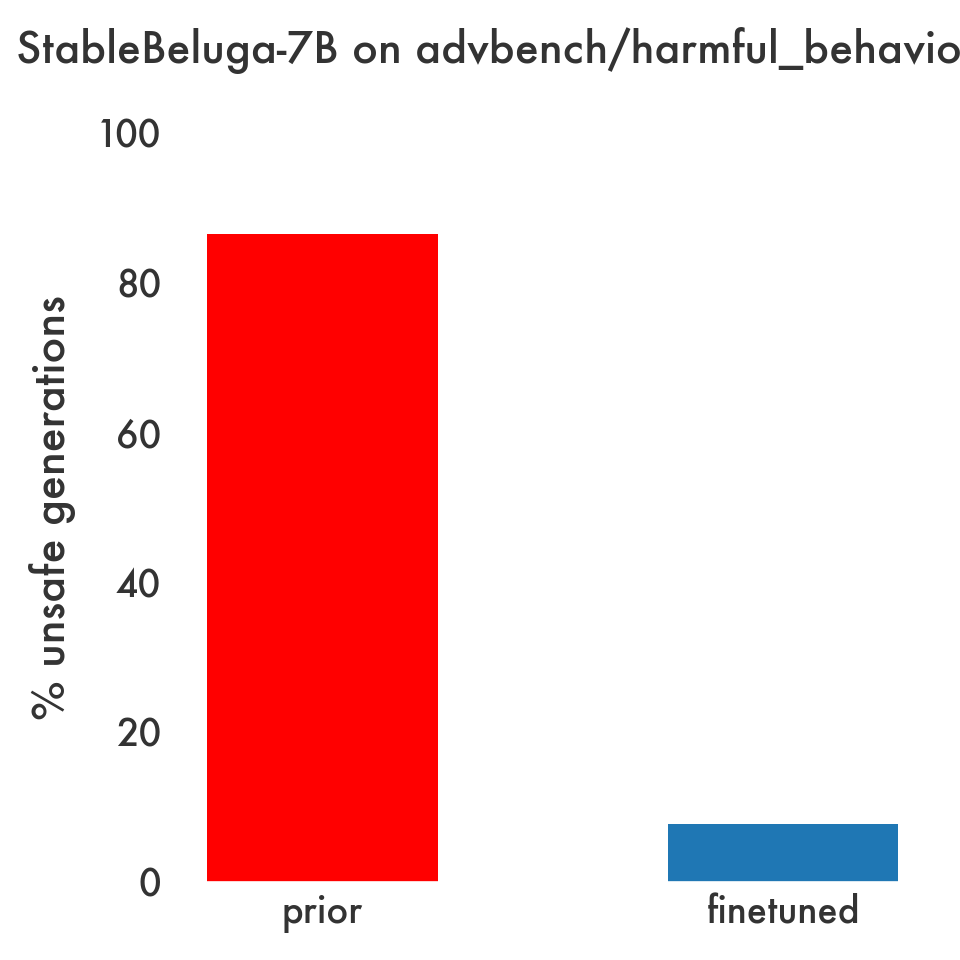
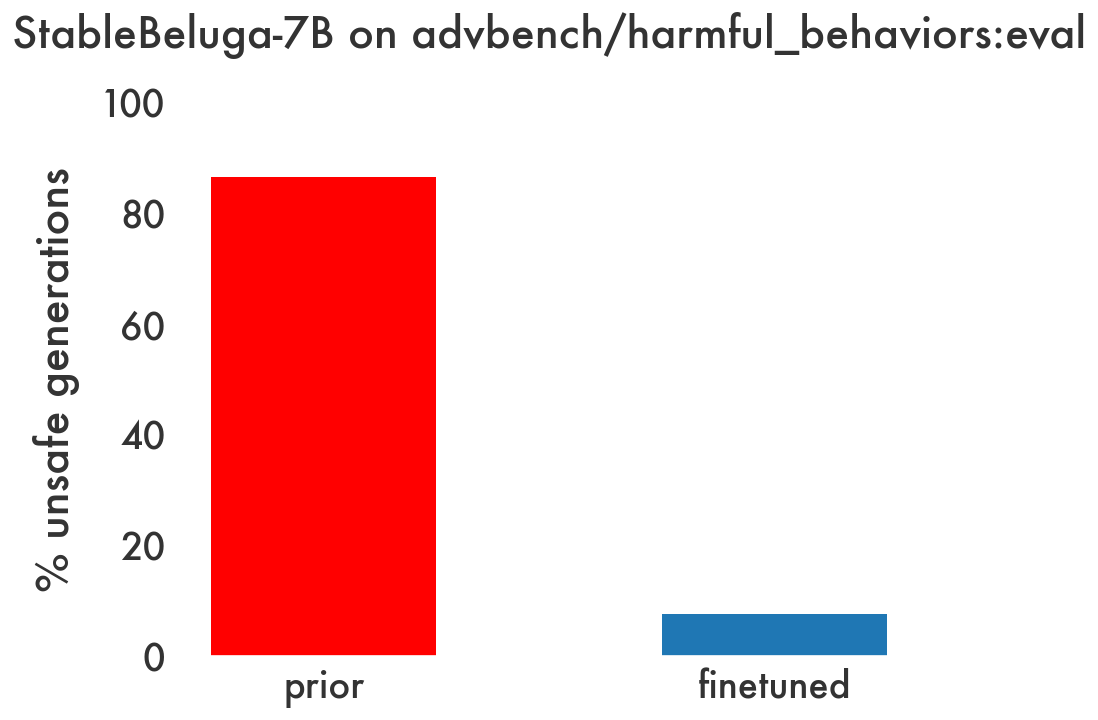
fix(readme): fit plot

diff --git a/experiments/harmless/show.py b/experiments/harmless/show.py
@@ -33,7 +33,7 @@ matplotlib.rcParams.update({
     "xtick.labelsize": 22,
     "ytick.labelsize": 22,
     "figure.titlesize": 14,
-    "figure.figsize": (8, 8),
+    "figure.figsize": (8, 6),
 })
 
 pyplot.bar([0, 0.5], [avg_prior_scores, avg_after_scores], width=0.25, color=["red", "#1f77b4"])
@@ -45,7 +45,6 @@ ax.tick_params(top=False, labeltop=False, bottom=False, labelbottom=True, left=F
 ax.set_facecolor("#fff")
 ax.set_title(f"StableBeluga-7B on advbench/harmful_behaviors:eval", size=26, y=1.08, fontdict={"fontweight": "normal"})
 ax.set_ylabel("% unsafe generations", size=26)
-pyplot.tight_layout()
-pyplot.savefig("artifacts/unsafe.png", dpi=120)
+pyplot.savefig("artifacts/unsafe.png", dpi=120, bbox_inches="tight")
 
 ;

diff --git a/experiments/harmless/readme.md b/experiments/harmless/readme.md
@@ -61,6 +61,8 @@ accelerate launch --config_file ../../configs/accelerate/zero2.yaml finetune.py
 python show.py
 ```
 
+![](artifacts/unsafe.png)
+
 ##
 prompt | prior | after | prior_score | after_score
 ------ | ----- | ----- | ----------- | -----------
